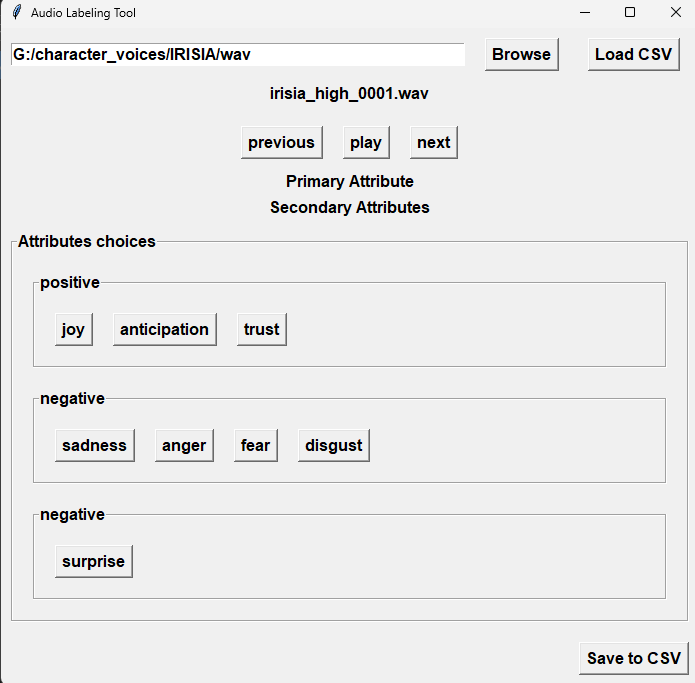
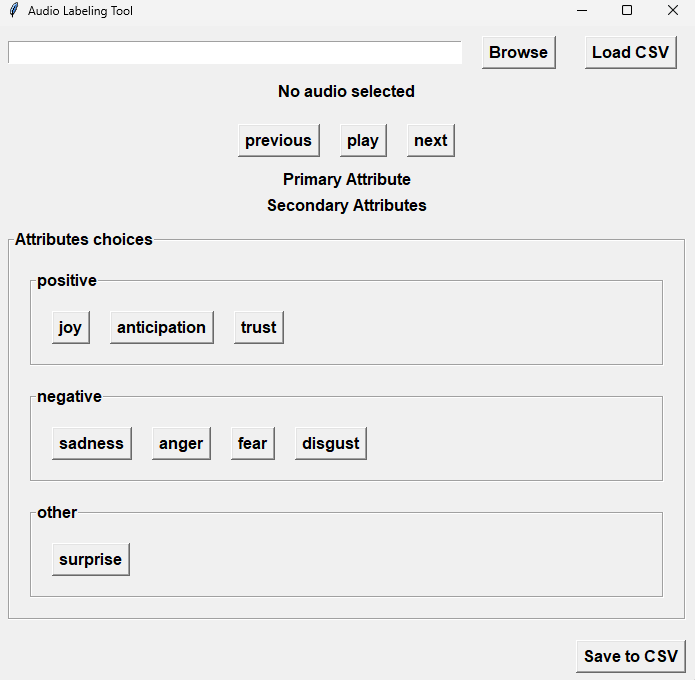
細かな修正

diff --git a/main.py b/main.py
@@ -81,7 +81,7 @@ class AudioLabelingApp:
         for i, attribute in enumerate(self.negative_attributes):
             btn = tk.Button(self.negative_frame, text=attribute, command=lambda attr=attribute: self.add_attribute(attr))
             btn.grid(row=0, column=i, padx=10, pady=10)
-        self.other_frame = tk.LabelFrame(self.attributes_frame,text="negative",padx=10,pady=10)
+        self.other_frame = tk.LabelFrame(self.attributes_frame,text="other",padx=10,pady=10)
         self.other_frame.grid(row=2, column=0, columnspan=3, sticky="ew", padx=10, pady=10)
         for i, attribute in enumerate(self.other_attributes):
             btn = tk.Button(self.other_frame, text=attribute, command=lambda attr=attribute: self.add_attribute(attr))

diff --git a/README.md b/README.md
@@ -10,6 +10,7 @@ pip install -r requirements.txt
 
 ```bash
 python main.py
-```
-
+``
+`
 ![alt text](image.png)
+```
